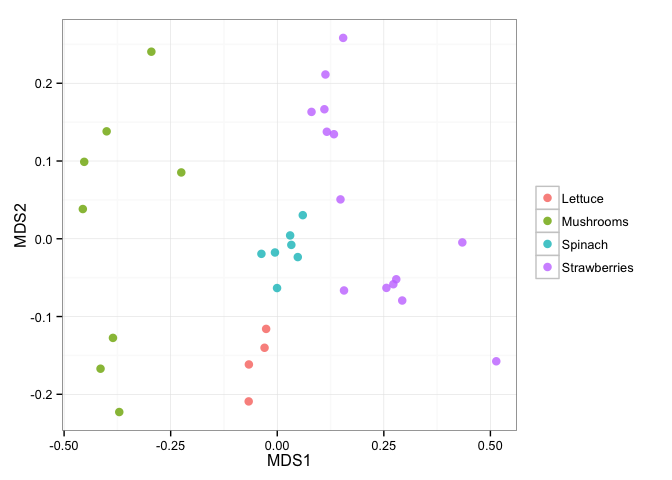
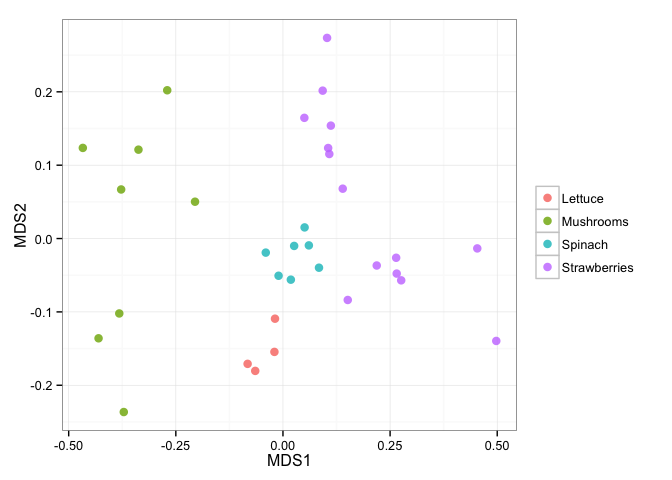
Support to export an OTU table

diff --git a/mctoolsr_examples.md b/mctoolsr_examples.md
@@ -22,6 +22,14 @@ git clone https://github.com/leffj/mctoolsr.git
 source('~/Software/mctoolsr/R/routine_analysis_functions.R')
 ```
 
+### Updating **mctoolsr**
+
+**mctoolsr** is under active devlopment. Update regularly to use the latest features and for bug fixes. Open a terminal and change directories to your mctoolsr directory. Then type the following to update:
+
+```
+git pull
+```
+
 
 ### Examples
 
@@ -123,11 +131,11 @@ tax_sum_phyla[1:5, 1:8]
 
 ```
 ##                    ProA12 ProA13 ProA14 ProA15 ProA16 ProA33 ProA34 ProA35
-## p__                 0.001  0.000  0.000  0.000  0.000  0.000  0.000  0.000
-## p__[Thermi]         0.001  0.000  0.000  0.000  0.000  0.000  0.008  0.000
-## p__Acidobacteria    0.002  0.000  0.000  0.000  0.000  0.000  0.000  0.000
-## p__Actinobacteria   0.377  0.007  0.004  0.016  0.003  0.048  0.069  0.103
-## p__Armatimonadetes  0.000  0.001  0.000  0.003  0.000  0.000  0.000  0.000
+## p__[Thermi]         0.001   0.00  0.000  0.000  0.000  0.000  0.003  0.000
+## p__Acidobacteria    0.001   0.00  0.000  0.000  0.000  0.000  0.000  0.000
+## p__Actinobacteria   0.393   0.01  0.001  0.022  0.004  0.043  0.069  0.084
+## p__Armatimonadetes  0.000   0.00  0.000  0.003  0.000  0.000  0.000  0.000
+## p__Bacteroidetes    0.101   0.54  0.791  0.373  0.561  0.001  0.004  0.003
 ```
 
 
@@ -151,10 +159,16 @@ ord = calc_ordination(dm, 'nmds')
 ```
 
 ```
-## Run 0 stress 0.1157552 
-## Run 1 stress 0.1397714 
-## Run 2 stress 0.1157552 
-## ... procrustes: rmse 2.266429e-05  max resid 9.581146e-05 
+## Run 0 stress 0.1159931 
+## Run 1 stress 0.1474144 
+## Run 2 stress 0.1508057 
+## Run 3 stress 0.1406924 
+## Run 4 stress 0.1397225 
+## Run 5 stress 0.1163211 
+## ... procrustes: rmse 0.008059515  max resid 0.03369261 
+## Run 6 stress 0.115993 
+## ... New best solution
+## ... procrustes: rmse 0.0008747218  max resid 0.002771651 
 ## *** Solution reached
 ```
 
@@ -196,9 +210,12 @@ ord = calc_ordination(dm, 'nmds')
 ```
 
 ```
-## Run 0 stress 0.1093698 
-## Run 1 stress 0.1093712 
-## ... procrustes: rmse 0.001575638  max resid 0.006331 
+## Run 0 stress 0.105623 
+## Run 1 stress 0.1208362 
+## Run 2 stress 0.1162376 
+## Run 3 stress 0.1208382 
+## Run 4 stress 0.1056235 
+## ... procrustes: rmse 0.0001751751  max resid 0.0007131892 
 ## *** Solution reached
 ```
 
@@ -237,22 +254,24 @@ plot_nmds(calc_dm(input_proteobact_rar$data_loaded), map = input_proteobact_rar$
 ```
 
 ```
-## Run 0 stress 0.1302543 
-## Run 1 stress 0.1344851 
-## Run 2 stress 0.109127 
+## Run 0 stress 0.1385604 
+## Run 1 stress 0.1380562 
 ## ... New best solution
-## ... procrustes: rmse 0.1122212  max resid 0.2948393 
-## Run 3 stress 0.1328634 
-## Run 4 stress 0.1086697 
+## ... procrustes: rmse 0.02525963  max resid 0.07598758 
+## Run 2 stress 0.1310933 
 ## ... New best solution
-## ... procrustes: rmse 0.007203325  max resid 0.02954427 
-## Run 5 stress 0.1391442 
-## Run 6 stress 0.1091276 
-## ... procrustes: rmse 0.007213756  max resid 0.02977796 
-## Run 7 stress 0.1305058 
-## Run 8 stress 0.1302541 
-## Run 9 stress 0.1086697 
-## ... procrustes: rmse 3.478205e-05  max resid 9.693163e-05 
+## ... procrustes: rmse 0.1201485  max resid 0.3213906 
+## Run 3 stress 0.1310825 
+## ... New best solution
+## ... procrustes: rmse 0.00396523  max resid 0.01213657 
+## Run 4 stress 0.1381934 
+## Run 5 stress 0.1330629 
+## Run 6 stress 0.1572366 
+## Run 7 stress 0.1599173 
+## Run 8 stress 0.138057 
+## Run 9 stress 0.1310787 
+## ... New best solution
+## ... procrustes: rmse 0.002382359  max resid 0.007671527 
 ## *** Solution reached
 ```
 
@@ -272,21 +291,21 @@ taxa_summary_by_sample_type(tax_sum_families, input_rar_filt$map_loaded,
 
 ```
 ##                               pvals     pvalsBon     pvalsFDR Mushrooms
-## f__Pseudomonadaceae    1.224686e-05 8.572802e-05 8.572802e-05  0.144625
-## f__Sphingobacteriaceae 6.831236e-05 4.781865e-04 2.390933e-04  0.288750
-## f__[Weeksellaceae]     1.714299e-04 1.200009e-03 4.000031e-04  0.103875
-## f__Enterobacteriaceae  5.816565e-04 4.071595e-03 1.017899e-03  0.035000
-## unclassified           2.400527e-03 1.680369e-02 3.360737e-03  0.071625
-## f__Bacillaceae         8.738906e-03 6.117234e-02 1.019539e-02  0.002875
-## f__Sphingomonadaceae   1.181728e-02 8.272098e-02 1.181728e-02  0.007750
+## f__Pseudomonadaceae    1.268000e-05 8.876001e-05 8.876001e-05  0.144500
+## f__Sphingobacteriaceae 6.081568e-05 4.257098e-04 2.128549e-04  0.283000
+## f__[Weeksellaceae]     1.222236e-04 8.555655e-04 2.851885e-04  0.107750
+## f__Enterobacteriaceae  5.734819e-04 4.014373e-03 1.003593e-03  0.032750
+## unclassified           3.890262e-03 2.723183e-02 5.446366e-03  0.076875
+## f__Bacillaceae         3.050348e-02 2.135244e-01 3.558740e-02  0.002875
+## f__Sphingomonadaceae   5.464613e-02 3.825229e-01 5.464613e-02  0.008625
 ##                             Spinach Strawberries
-## f__Pseudomonadaceae    0.0652857143  0.001000000
-## f__Sphingobacteriaceae 0.0032857143  0.001000000
-## f__[Weeksellaceae]     0.0021428571  0.001357143
-## f__Enterobacteriaceae  0.7305714286  0.572714286
-## unclassified           0.0284285714  0.022285714
-## f__Bacillaceae         0.0055714286  0.202357143
-## f__Sphingomonadaceae   0.0004285714  0.059642857
+## f__Pseudomonadaceae    0.0670000000 0.0011428571
+## f__Sphingobacteriaceae 0.0028571429 0.0007142857
+## f__[Weeksellaceae]     0.0022857143 0.0014285714
+## f__Enterobacteriaceae  0.7314285714 0.5745000000
+## unclassified           0.0280000000 0.0227857143
+## f__Bacillaceae         0.0055714286 0.2032142857
+## f__Sphingomonadaceae   0.0008571429 0.0582142857
 ```
 
 This analysis demonstrates that Pseudomonadaceae and Sphingobacteriaceae tend to have higher relative abundances on mushrooms than spinach and strawberries. The p values are based on Kruskal-Wallis tests and two different corrections are reported to deal with the multiple comparisons (Bonferroni and FDR). Rare taxa are filtered out using the `filter_level` peramter. The values indicated under the sample types are mean relative abundances.    
@@ -305,42 +324,44 @@ ord = calc_ordination(dm_aggregated$dm, ord_type = 'nmds')
 ```
 
 ```
-## Run 0 stress 0 
-## Run 1 stress 0 
-## ... procrustes: rmse 0.2378439  max resid 0.4156083 
-## Run 2 stress 9.45397e-05 
-## ... procrustes: rmse 0.03501515  max resid 0.05695216 
-## Run 3 stress 0 
-## ... procrustes: rmse 0.02485739  max resid 0.03732512 
+## Run 0 stress 9.92867e-05 
+## Run 1 stress 6.228608e-05 
+## ... New best solution
+## ... procrustes: rmse 0.230373  max resid 0.3736116 
+## Run 2 stress 0 
+## ... New best solution
+## ... procrustes: rmse 0.13297  max resid 0.1938316 
+## Run 3 stress 5.605032e-05 
+## ... procrustes: rmse 0.1776609  max resid 0.2286363 
 ## Run 4 stress 0 
-## ... procrustes: rmse 0.2397933  max resid 0.3673765 
-## Run 5 stress 0 
-## ... procrustes: rmse 0.2540933  max resid 0.4376614 
-## Run 6 stress 0.2465763 
-## Run 7 stress 8.317244e-05 
-## ... procrustes: rmse 0.2388794  max resid 0.4191379 
-## Run 8 stress 0 
-## ... procrustes: rmse 0.1146179  max resid 0.1377256 
-## Run 9 stress 4.908487e-06 
-## ... procrustes: rmse 0.2361014  max resid 0.4180284 
+## ... procrustes: rmse 0.2039819  max resid 0.3474579 
+## Run 5 stress 9.14741e-05 
+## ... procrustes: rmse 0.181997  max resid 0.2796375 
+## Run 6 stress 0 
+## ... procrustes: rmse 0.07394844  max resid 0.1257027 
+## Run 7 stress 9.51546e-05 
+## ... procrustes: rmse 0.1724328  max resid 0.2687377 
+## Run 8 stress 0.1842126 
+## Run 9 stress 9.146607e-05 
+## ... procrustes: rmse 0.2395799  max resid 0.3913539 
 ## Run 10 stress 0 
-## ... procrustes: rmse 0.038304  max resid 0.07344414 
-## Run 11 stress 0 
-## ... procrustes: rmse 0.1445876  max resid 0.2522866 
-## Run 12 stress 0 
-## ... procrustes: rmse 0.04896569  max resid 0.08552502 
+## ... procrustes: rmse 0.09409697  max resid 0.141056 
+## Run 11 stress 9.53672e-05 
+## ... procrustes: rmse 0.2423281  max resid 0.3992875 
+## Run 12 stress 1.539381e-05 
+## ... procrustes: rmse 0.04129791  max resid 0.06645215 
 ## Run 13 stress 0.1842127 
-## Run 14 stress 9.412529e-05 
-## ... procrustes: rmse 0.1651268  max resid 0.3301675 
+## Run 14 stress 0.1842128 
 ## Run 15 stress 0 
-## ... procrustes: rmse 0.2431511  max resid 0.3972836 
-## Run 16 stress 0.1620205 
-## Run 17 stress 0.1842126 
-## Run 18 stress 1.001635e-05 
-## ... procrustes: rmse 0.2305798  max resid 0.376923 
-## Run 19 stress 0.1620205 
-## Run 20 stress 7.221803e-05 
-## ... procrustes: rmse 0.1963282  max resid 0.332287
+## ... procrustes: rmse 0.2125599  max resid 0.359277 
+## Run 16 stress 0.1842126 
+## Run 17 stress 0 
+## ... procrustes: rmse 0.2291802  max resid 0.3746412 
+## Run 18 stress 0.001442652 
+## Run 19 stress 9.317751e-05 
+## ... procrustes: rmse 0.235963  max resid 0.3816467 
+## Run 20 stress 0 
+## ... procrustes: rmse 0.2206821  max resid 0.3617279
 ```
 
 ```
@@ -353,6 +374,16 @@ plot_ordination(dm_aggregated, ord, color_cat = 'Sample_type')
 ```
 
 ![](mctoolsr_examples_files/figure-html/unnamed-chunk-11-1.png) 
+
+
+#### Exporting an OTU table
+
+OTU tables that have been edited in **mctoolsr* can be exported in text (tab delimited) format for later use. Use this function:
+
+
+```r
+export_otu_table(input_rar_filt, "export/path/otu_table_export.txt")
+```
 
 
 
